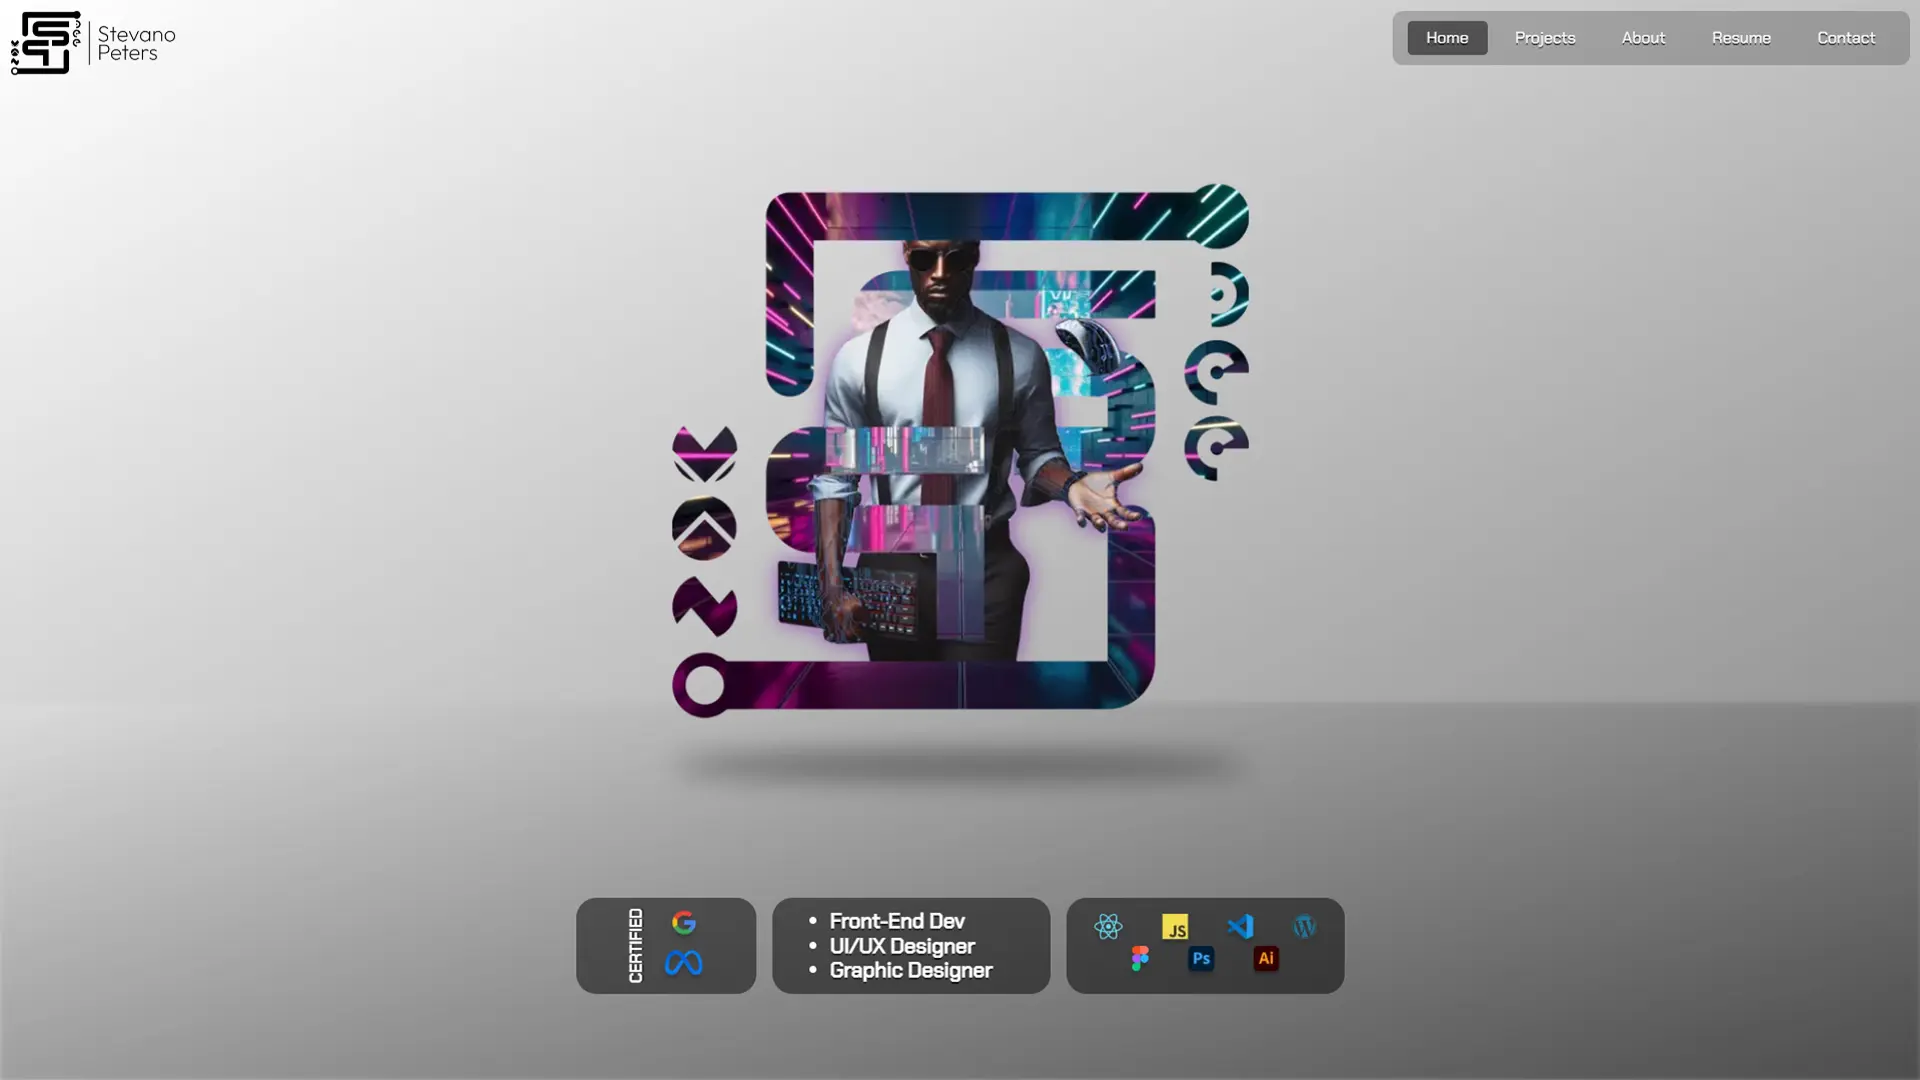
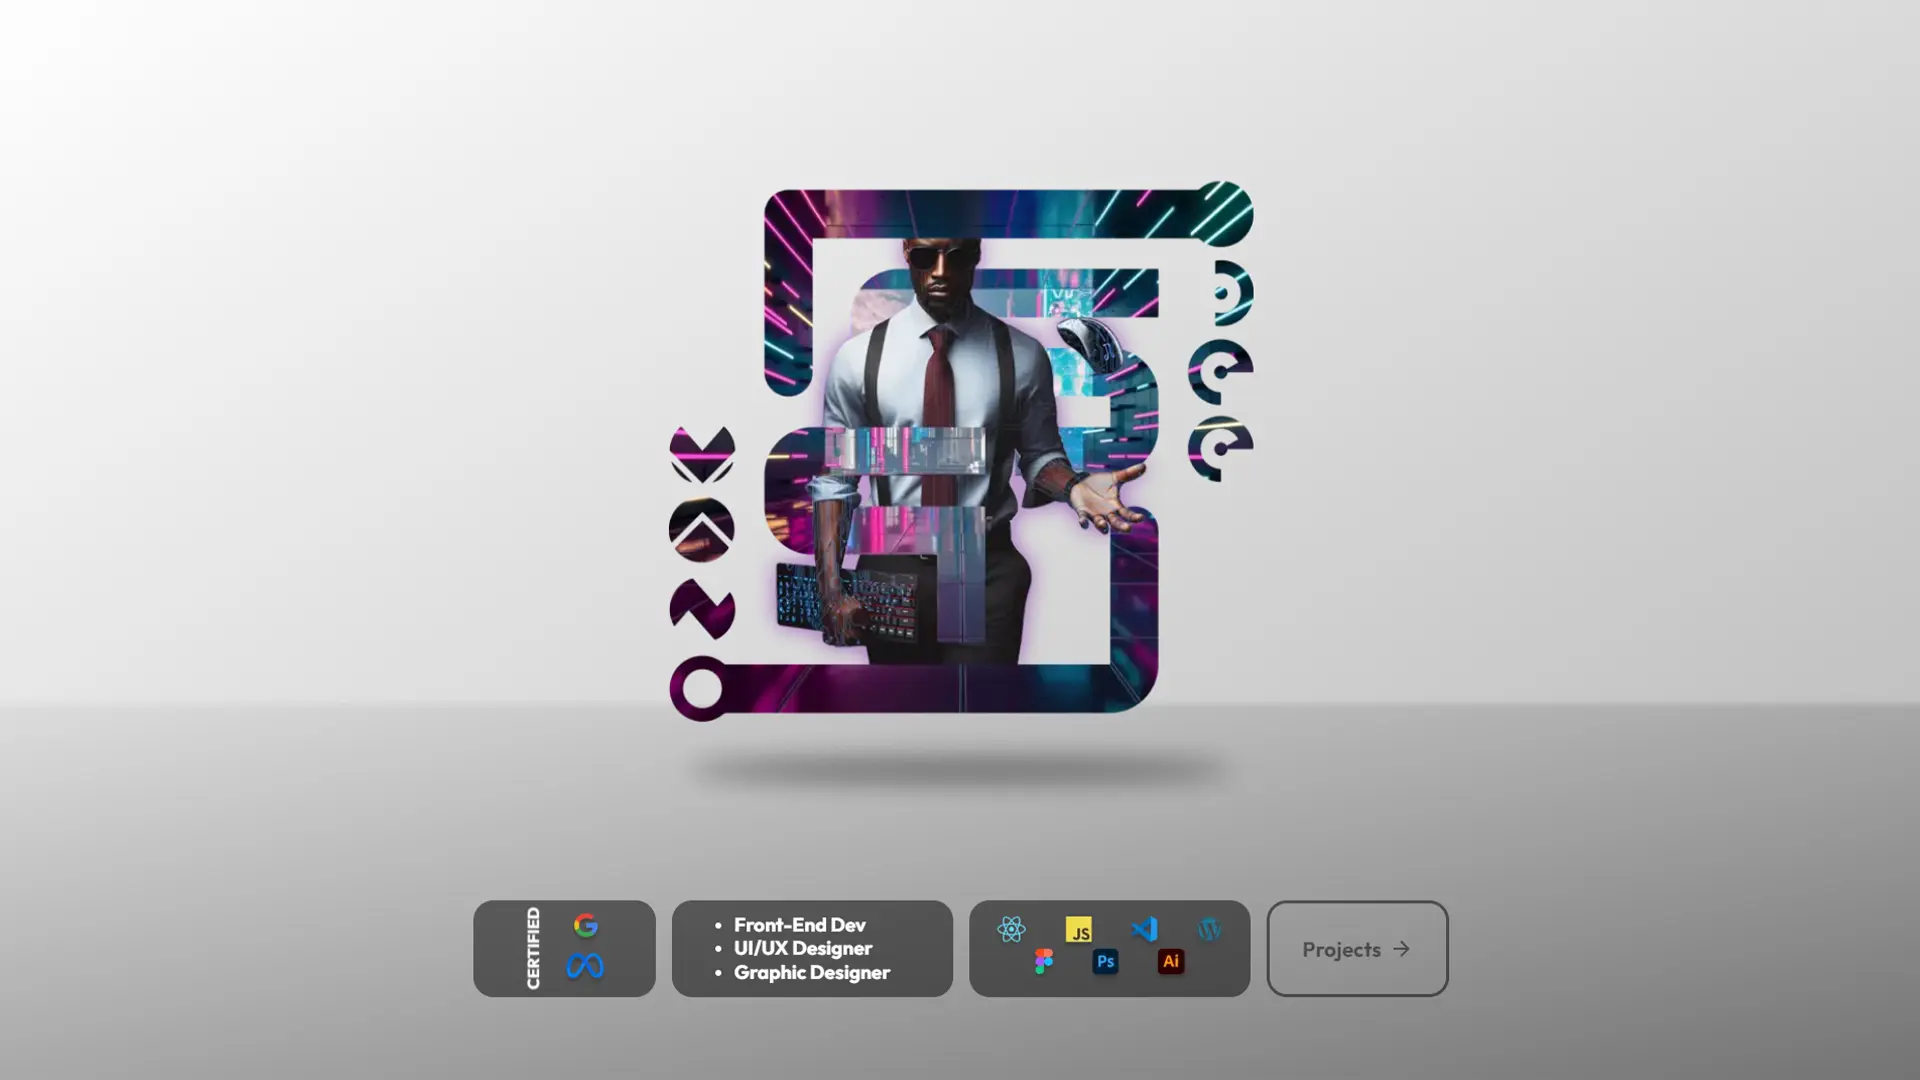
Stevano.dev Images & About Text

diff --git a/src/pages/MyPortfolio.jsx b/src/pages/MyPortfolio.jsx
@@ -130,8 +130,7 @@ export default function MyPortfolio() {
 
 
         <Image //SECTION IMAGE ------------------------------------------------------------------
-          src="https://via.placeholder.com/800x400?text=Hero+Image"
-          // src={projectImages.heroImage}
+          src={projectImages.heroImage}
           sx={sectionImage}
         />
 
@@ -212,8 +211,7 @@ export default function MyPortfolio() {
           sx={subSectionImageContainer}
         >
           <Image
-            src="https://via.placeholder.com/800x400?text=Animation"
-            // src={projectImages.splashImage}
+            src={projectImages.animation1}
             sx={subSectionImage}
           />
         </VStack>
@@ -227,8 +225,7 @@ export default function MyPortfolio() {
 
 
         <Image //SECTION IMAGE ------------------------------------------------------------------
-          src="https://via.placeholder.com/800x400?text=Section+Hero"
-          // src={projectImages.researchHero}
+          src={projectImages.hero2}
           sx={sectionImage}
         />
 
@@ -259,8 +256,17 @@ export default function MyPortfolio() {
           sx={subSectionImageContainer}
         >
           <Image
-            src="https://via.placeholder.com/800x400?text=Logo+Design+Process"
-            // src={projectImages.journeyMap}
+            src={projectImages.logoProcess}
+            sx={subSectionImage}
+          />
+
+          <Image
+            src={projectImages.logoOnWhite}
+            sx={subSectionImage}
+          />
+
+          <Image
+            src={projectImages.logo3d}
             sx={subSectionImage}
           />
 
@@ -292,8 +298,7 @@ export default function MyPortfolio() {
           sx={subSectionImageContainer}
         >
           <Image
-            src="https://via.placeholder.com/800x400?text=Color+Change+Showcase"
-            // src={projectImages.journeyMap}
+            src={projectImages.animation2}
             sx={subSectionImage}
           />
 
@@ -316,7 +321,7 @@ export default function MyPortfolio() {
             Considering the portfolio would contain projects from various fields, Arranging them was a task that needed to be done with great precision.
             <br />
             <br />
-            I drew inspiration from the UIs of two of my favourite videogames: <em>Apex Legends</em> and <em>The Finals</em>, displaying projects in a central space with tabs for project categories. This minimalist design with semi-glasmorphic elements ensures easy navigation and a clean aesthetic.
+            I drew inspiration from the UIs of two of my favourite videogames: <em>Apex Legends</em> and <em>The Finals</em>, displaying projects in a central space with tabs for project categories. My minimalist approach to this design style ensures easy navigation and an overall clean aesthetic.
           </Text>
         </Stack>
 
@@ -325,8 +330,7 @@ export default function MyPortfolio() {
           sx={subSectionImageContainer}
         >
           <Image
-            src="https://via.placeholder.com/800x400?text=Apex+Legends"
-            // src={projectImages.journeyMap}
+            src={projectImages.apexImg}
             sx={subSectionImage}
           />
 
@@ -338,8 +342,7 @@ export default function MyPortfolio() {
           sx={subSectionImageContainer}
         >
           <Image
-            src="https://via.placeholder.com/800x400?text=Finals"
-            // src={projectImages.journeyMap}
+            src={projectImages.finalsImg}
             sx={subSectionImage}
           />
 
@@ -351,8 +354,7 @@ export default function MyPortfolio() {
           sx={subSectionImageContainer}
         >
           <Image
-            src="https://via.placeholder.com/800x400?text=Projects+Section"
-            // src={projectImages.journeyMap}
+            src={projectImages.projectsPage}
             sx={subSectionImage}
           />
 
@@ -388,8 +390,7 @@ export default function MyPortfolio() {
 
 
         <Image //SECTION IMAGE ------------------------------------------------------------------
-          src="https://via.placeholder.com/800x400?text=Section+Hero"
-          // src={projectImages.researchHero}
+          src={projectImages.hero3}
           sx={sectionImage}
         />
 
@@ -429,9 +430,10 @@ export default function MyPortfolio() {
         </Text>
 
 
-        <ChakraLink
-          href=""
-          isExternal
+        <Link
+          // href=""
+          // isExternal
+          to="/"
           alignSelf="center"
         >
           <Button
@@ -441,7 +443,7 @@ export default function MyPortfolio() {
           >
             Explore the Website
           </Button>
-        </ChakraLink>
+        </Link>
 
 
         {/* FOOTER -------------------------------------------------------------------------------------- */}

diff --git a/src/pages/About.jsx b/src/pages/About.jsx
@@ -44,7 +44,7 @@ export default function About() {
           display="flex"
           alignItems='center'
           justifyContent='center'
-          h={isPortrait ? "55%" : "100%"}
+          h={isPortrait ? "50%" : "100%"}
           w={isPortrait ? "100%" : "55%"}
           // bg="blue"
         >
@@ -59,7 +59,7 @@ export default function About() {
           backdropBlur='15px'
           borderRadius="1rem"
           p={{ base: "5%", md: "2%" }}
-          h={isPortrait ? "45%" : "100%"}
+          h={isPortrait ? "50%" : "100%"}
           w={isPortrait ? "100%" : "45%"}
           color="white"
           // textShadow="0px 2px rgba(0, 0, 0, 0.8)"
@@ -81,10 +81,18 @@ export default function About() {
             <Text
               fontSize="1rem"
             >
-              Stevano Peters is a passionate digital designer with a focus on UI/UX and Brand Identity Design. My work is driven by a deep appreciation for creativity and a keen interest in all design-related subjects. I thrive on functional design projects that require innovative problem-solving to create purposeful and actionable solutions.
-              As a designer, my ultimate goal is to deliver designs that align with the vision and goals of my clients or the company I work with, while keeping their end users in mind. I believe in the power of effective communication and collaboration, and I actively engage with clients and project teams throughout the design process. By fostering open lines of communication, I ensure that the final design solution not only meets but exceeds expectations.
-              When I'm not immersed in the world of design, I channel my creative energy into various other outlets. I am a music producer, constantly exploring new sonic landscapes and crafting unique compositions. Additionally, I enjoy creating online content to share my knowledge and insights with a wider audience. Video games, particularly Apex Legends, provide me with a recreational escape and a source of inspiration for my design work. I am always seeking opportunities to level up my existing skills and dive into new areas of learning, expanding my expertise and staying at the forefront of the ever-evolving design industry.
-              In summary, I am a dedicated digital designer who is driven by a passion for creativity and problem-solving. With a focus on UI/UX and Brand Identity Design, I strive to deliver functional and professional design solutions that exceed expectations. By fostering open communication and embracing a multidisciplinary approach, I consistently create impactful designs that resonate with clients and users alike.
+              My name is Stevano Dikedi Peters, and I am a passionate Developer/Designer with a focus on Front-End Development, UI/UX, and Brand Identity Design. My work is driven by a deep appreciation for creativity and a keen interest in all design-related subjects. I thrive on tackling projects that demand innovative problem-solving, aiming to create purposeful and actionable solutions that align with the vision and goals of my clients or the companies I work with, while always keeping the end user in mind.
+              <br />
+              <br />
+              Effective communication and collaboration are at the heart of my design process. I actively engage with clients and project teams throughout every phase, ensuring that the final solution not only meets but exceeds expectations. I am always on the lookout for opportunities to enhance my skills and explore new areas of learning, staying at the forefront of the ever-evolving design industry.
+              <br />
+              <br />
+              When I'm not immersed in the world of design, I channel my creativity into music production, exploring new sonic landscapes and crafting unique compositions. I also find inspiration in video games, whether through team-based experiences like <em>"Apex Legends"</em> and <em>"The Finals"</em> or narrative-driven adventures like <em>"CyberPunk 2077"</em> and <em>"Control."</em>
+              <br />
+              <br />
+              In summary, I am a dedicated digital designer with a passion for creativity and problem-solving. Specializing in Front-End Development, UI/UX, and Brand Identity Design, I strive to deliver functional and professional solutions that exceed expectations. By fostering open communication and embracing a multidisciplinary approach, I consistently create impactful designs that resonate with clients and users alike.
+
+
             </Text>
           </Box>
 

diff --git a/src/components/NavItems.jsx b/src/components/NavItems.jsx
@@ -6,7 +6,7 @@ const links = [
     { id: 1, name: "Home", path: "/" },
     { id: 2, name: "Projects", path: "Projects" },
     { id: 3, name: "About", path: "About" },
-    { id: 4, name: "Resume", path: "https://drive.google.com/file/d/19iJzUTlZdmzDgyn3JBzHUKgSen7W4E4i/view" },
+    { id: 4, name: "Resume", path: "https://drive.google.com/file/d/1XbjO0b3Ly7LKs5L9_hhK7UjKA3zmSAFe/view?usp=sharing" },
     { id: 5, name: "Contact", path: "Contact" },
 ];
 
